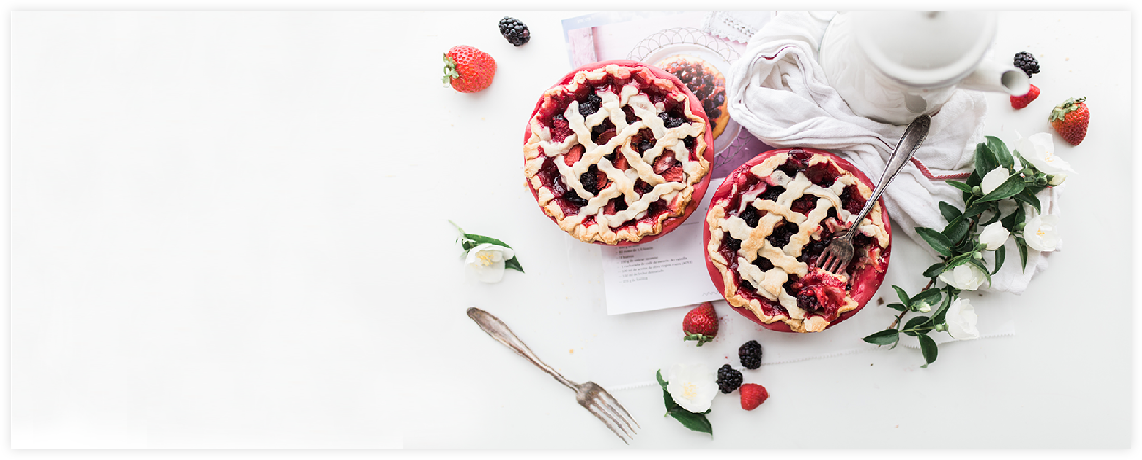
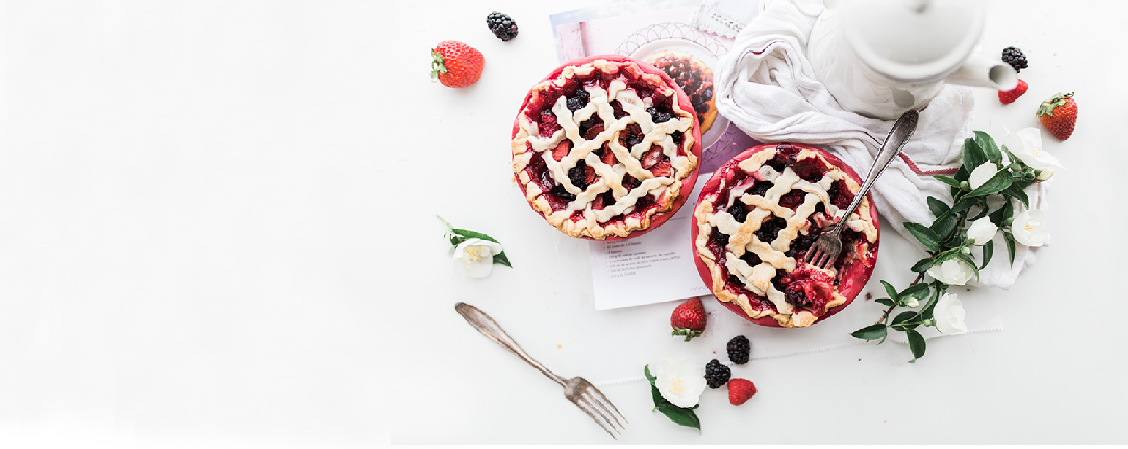
feat: add sub-recipes

diff --git a/src/index.html b/src/index.html
@@ -35,12 +35,38 @@
         </div>
       </div>
   </div>
-  <section class="content">
+  <section class="container">
     <div class="main-recipe row">
-       <div class="main-recipe__left col-6"></div>
-        <div class="main-recipe__img col-6"></div>
+       <div class="main-recipe__left">
+         <img src="img/logo.png" class="main-recipe__left-img img-fluid"  alt="" >
+         <h2>Bananas Foster Ice Cream Cake</h2>
+         <p>If you're looking for decadence, look no further — you've found the Holy Grail of desserts. Honestly, this cake makes us wonder why Bananas Foster hasn't always been served on top of ice cream cake.</p>
+         <button>Get It Recipe</button>
+       </div>
+        <div class="main-recipe__img col-12"></div>
       </div>
   </section>
+
+  <section class="container">
+    <div class="sub-recipes row">
+      <div class="sub-recipes__item col">
+        <img  class="sub-recipes__item-img" src= "img/sub-rec1.png" alt=""><br>
+        <span class="sub-recipes__item-text">Raspberry & Cream Frozen Yogurt Pie</span><br>
+        <span class="sub-recipes__item-info">1</span>
+      </div>
+      <div class="sub-recipes__item col">
+        <img  class="sub-recipes__item-img" src= "img/sub-rec2.png" alt=""><br>
+        <span class="sub-recipes__item-text">Giant Ice Cream Sandwich</span><br>
+        <span class="sub-recipes__item-info">2</span>
+      </div>
+      <div class="sub-recipes__item col">
+        <img  class="sub-recipes__item-img" src= "img/sub-rec3.png" alt=""><br>
+        <span class="sub-recipes__item-text">Dark Chocolate Crunch Ice Cream  Sandwich Cake</span><br>
+        <span class="sub-recipes__item-info">3</span>
+      </div>
+    </div>
+  </section>
+
 </body>
 
 </html>

diff --git a/src/css/main.css b/src/css/main.css
@@ -27,7 +27,7 @@ body {
   -webkit-align-items: center;
       -ms-flex-align: center;
           align-items: center;
-  margin-bottom: 80px;
+  margin-bottom: 160px;
   text-align: center;
 }
 
@@ -52,4 +52,50 @@ ul {
       -ms-flex-align: center;
           align-items: center;
   padding: 30px 0;
+}
+
+.main-recipe {
+  position: relative;
+  -webkit-box-align: center;
+  -webkit-align-items: center;
+      -ms-flex-align: center;
+          align-items: center;
+  padding-left: 7px;
+}
+
+.main-recipe__left {
+  z-index: 10;
+  padding-left: 80px;
+}
+
+.main-recipe__left p {
+  width: 350px;
+}
+
+.main-recipe__left-img {
+  max-width: 100%;
+  height: auto;
+}
+
+.main-recipe__img {
+  position: absolute;
+  z-index: 1;
+  background-repeat: no-repeat;
+  height: 445px;
+  background-image: url("../img/main-recipe.png");
+  margin-bottom: 85px;
+}
+
+.sub-recipes {
+  background-color: white;
+  margin-top: 160px;
+  -webkit-box-pack: justify;
+  -webkit-justify-content: space-between;
+      -ms-flex-pack: justify;
+          justify-content: space-between;
+  padding-bottom: 60px;
+}
+
+.sub-recipes__item-img {
+  margin-top: 40px;
 }

diff --git a/src/sass/main.sass b/src/sass/main.sass
@@ -18,7 +18,7 @@ body
 .nav
     background-color: white
     align-items: center
-    margin-bottom: 80px
+    margin-bottom: 160px
 
     &__logo
     text-align: center
@@ -35,5 +35,40 @@ ul
     align-items: center
     padding: 30px 0
 
+.main-recipe
+    position: relative
+    align-items: center
+    padding-left: 7px
+
+.main-recipe__left
+    z-index: 10
+    padding-left: 80px
+
+    p
+        width: 350px 
+    &-img 
+        max-width: 100%
+        height: auto
 
 
+.main-recipe__img
+    position: absolute
+    z-index: 1
+    background-repeat: no-repeat
+    height: 445px
+    background-image: url('../img/main-recipe.png')
+    margin-bottom: 85px
+
+.sub-recipes
+    background-color: white 
+    margin-top: 160px
+    justify-content: space-between
+    padding-bottom: 60px
+    
+    &__item
+    
+         &-info 
+            
+
+         &-img 
+             margin-top: 40px
